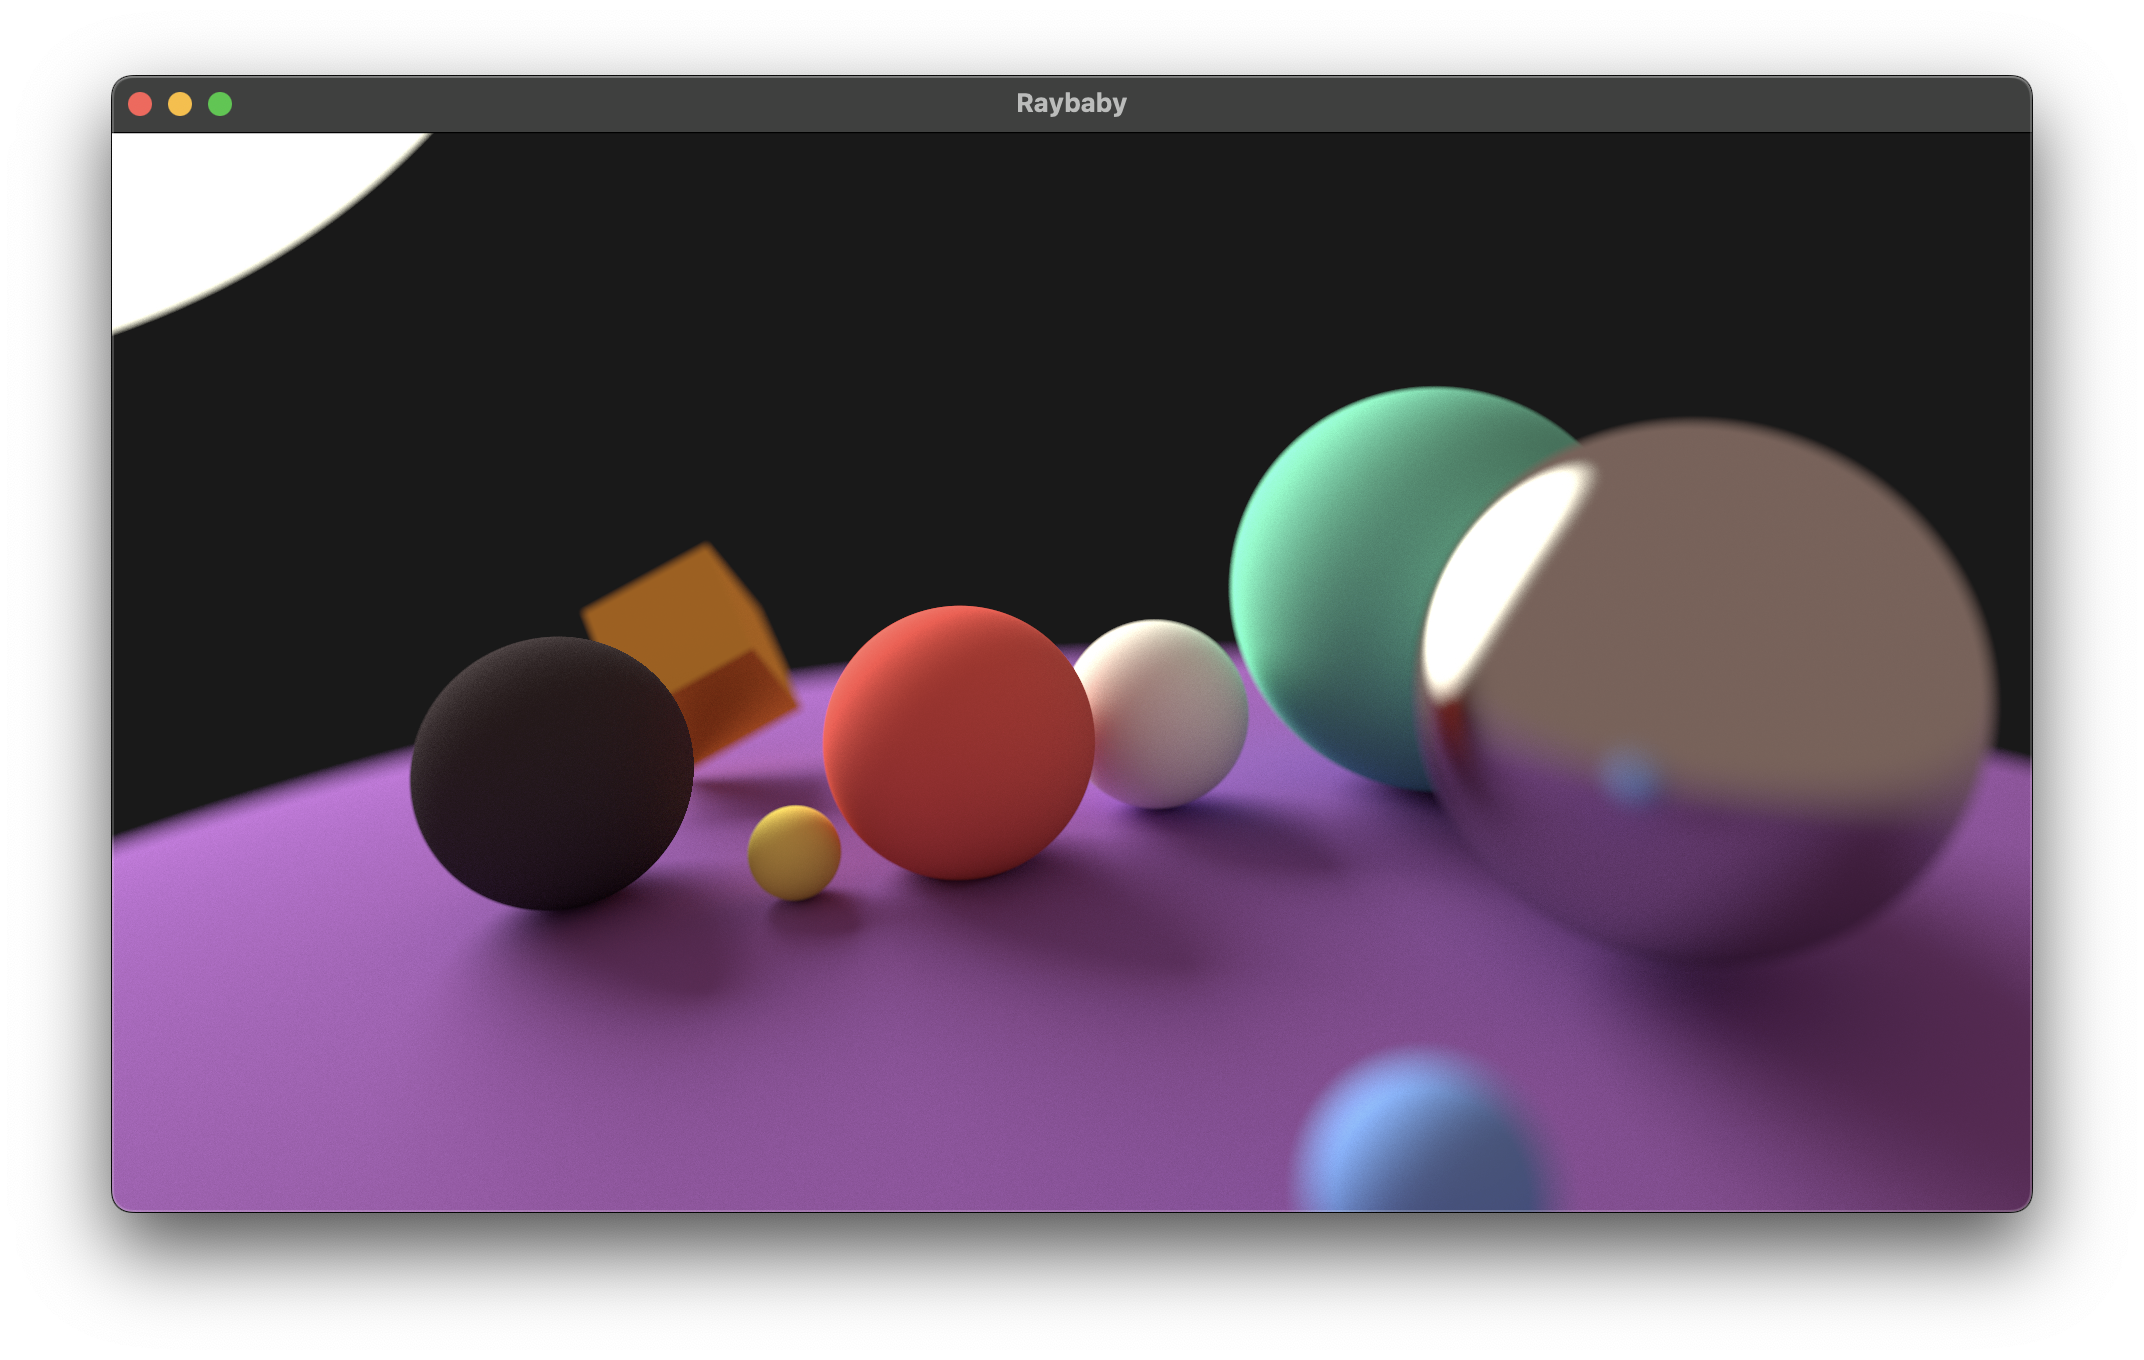
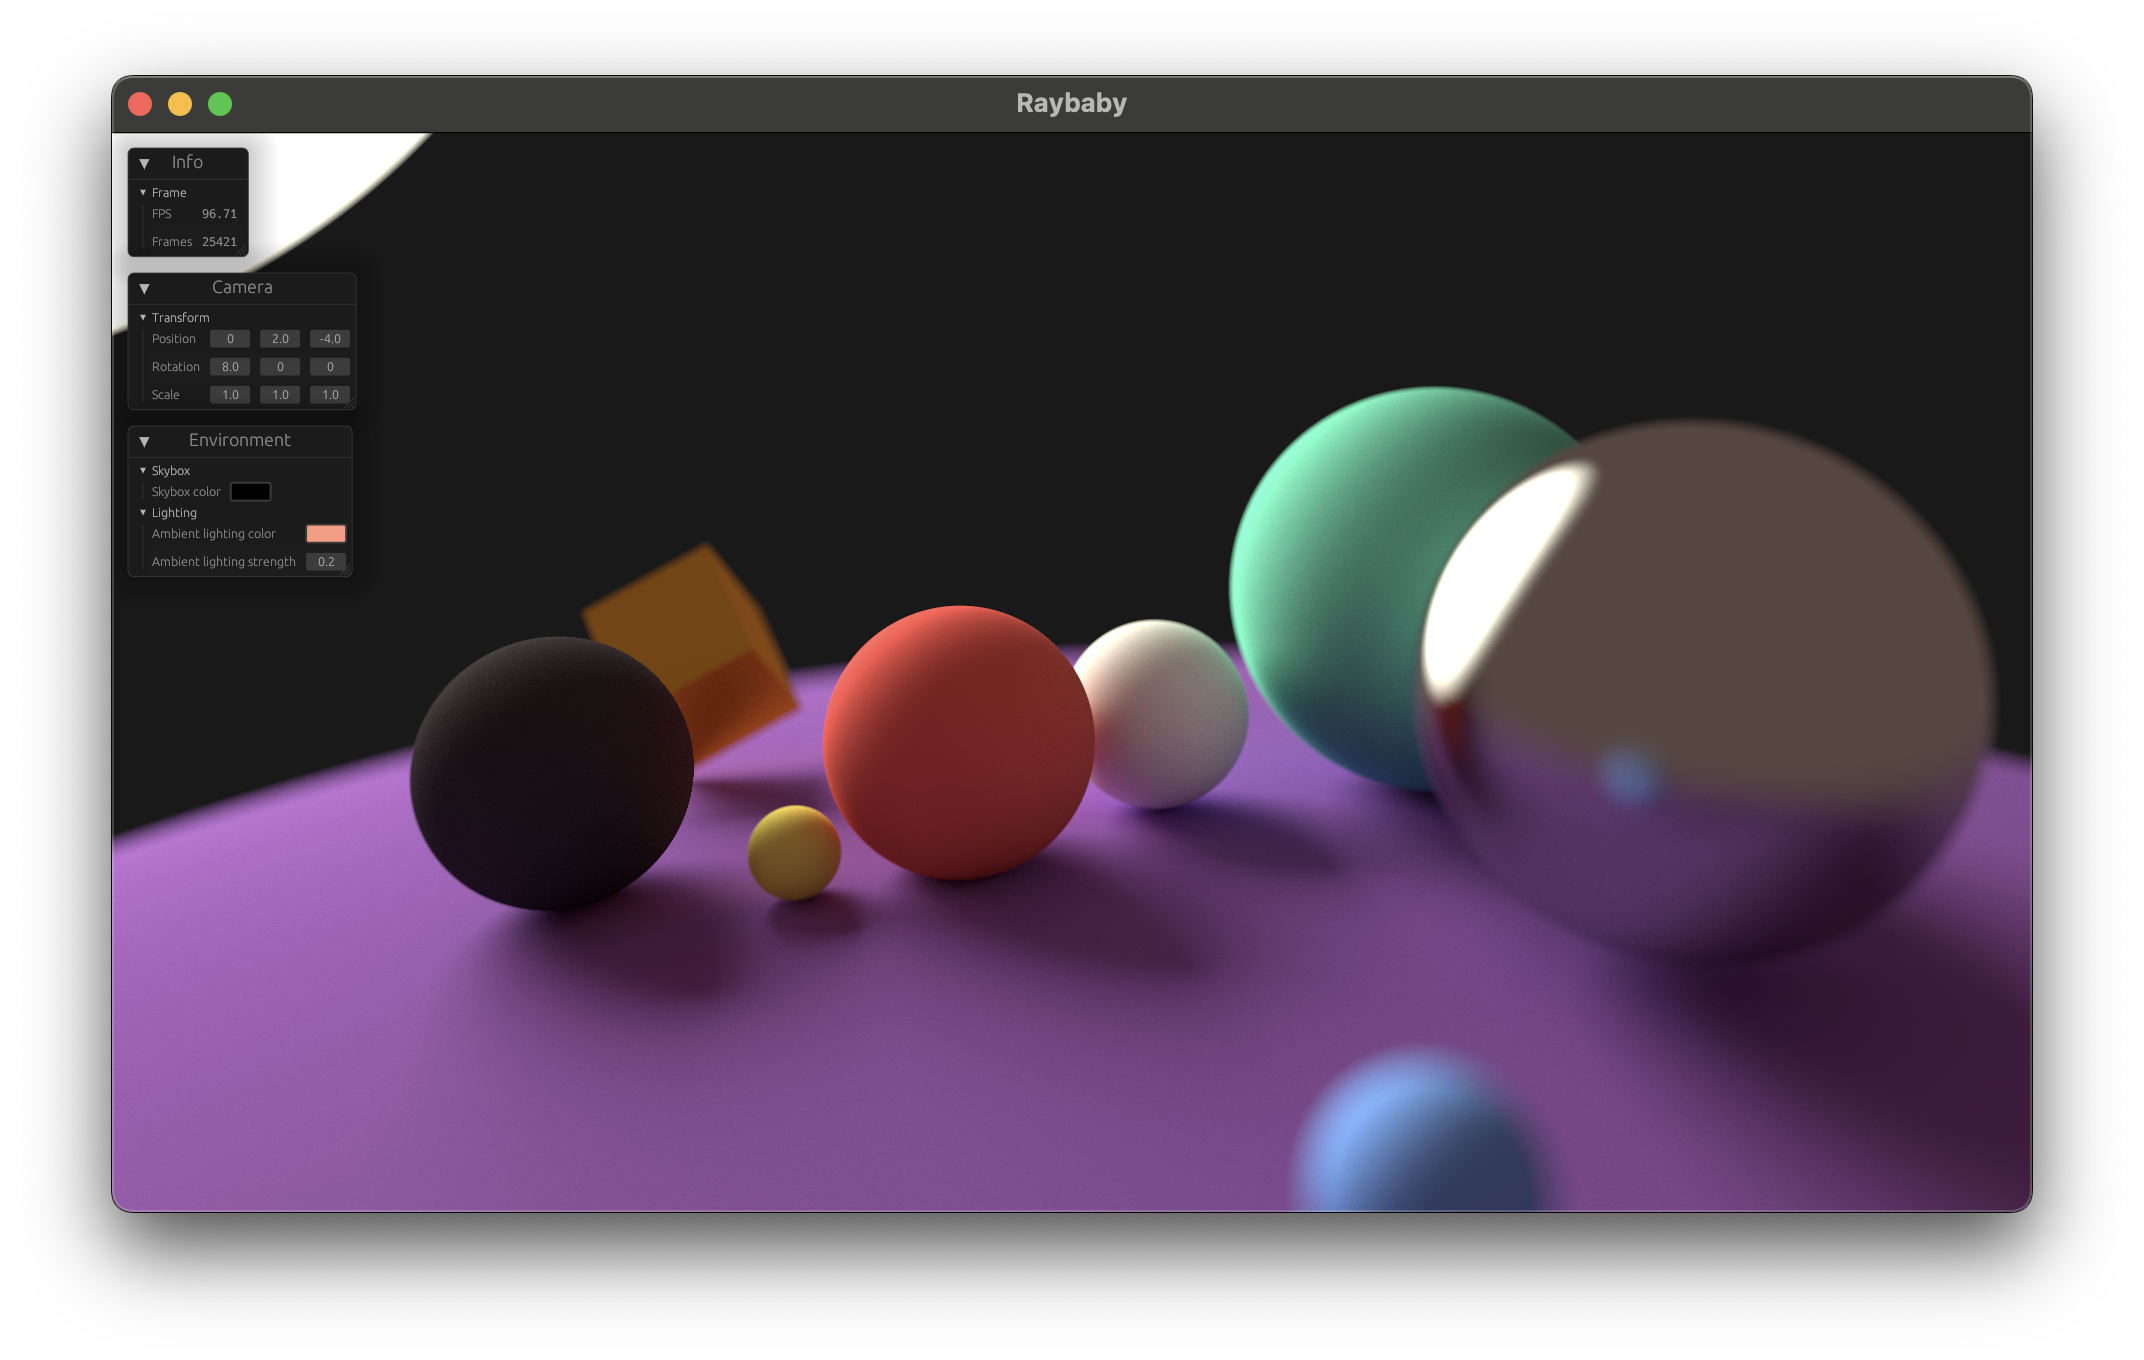
Cleaned up GUI rendering a bit

diff --git a/src/gui.rs b/src/gui.rs
@@ -1,4 +1,9 @@
-use crate::storage::{Camera, Globals};
+use egui::RichText;
+
+use crate::{
+    app::Timing,
+    storage::{Camera, Globals},
+};
 
 pub struct Window {
     info: InfoPane,
@@ -15,34 +20,40 @@ impl Window {
         }
     }
 
-    pub fn ui(&mut self, ctx: &egui::Context, globals: &mut Globals) {
+    pub fn ui(&mut self, ctx: &egui::Context, globals: &mut Globals, timing: &Timing) {
         egui::Window::new("Info")
-            .min_width(900.0)
+            .default_open(true)
             .show(ctx, |ui: &mut egui::Ui| {
-                self.info.ui(ui, globals);
+                self.info.ui(ui, globals, timing);
             });
 
-        egui::Window::new("Camera").show(ctx, |ui: &mut egui::Ui| {
-            self.camera.ui(ui, &mut globals.camera);
-        });
+        egui::Window::new("Camera")
+            .default_open(true)
+            .show(ctx, |ui: &mut egui::Ui| {
+                self.camera.ui(ui, &mut globals.camera);
+            });
 
-        egui::Window::new("Environment").show(ctx, |ui: &mut egui::Ui| {
-            self.environment.ui(ui, globals);
-        });
+        egui::Window::new("Environment")
+            .default_open(true)
+            .show(ctx, |ui: &mut egui::Ui| {
+                self.environment.ui(ui, globals);
+            });
     }
 }
 
 struct InfoPane;
 
 impl InfoPane {
-    fn ui(&mut self, ui: &mut egui::Ui, globals: &mut Globals) {
-        egui::Grid::new("info")
-            .striped(true)
-            .spacing([10.0, 10.0])
-            .show(ui, |ui| {
-                ui.label("Frame");
-                ui.add(egui::DragValue::new(&mut globals.frame).speed(1.0));
-            });
+    fn ui(&mut self, ui: &mut egui::Ui, globals: &mut Globals, timing: &Timing) {
+        draw_section(ui, "Frame", |ui| {
+            ui.label("FPS");
+            ui.label(RichText::new(format!("{:.2}", timing.avs_fps)).monospace());
+
+            ui.end_row();
+
+            ui.label("Frames");
+            ui.label(RichText::new(format!("{}", globals.frame)).monospace());
+        });
     }
 }
 
@@ -50,8 +61,7 @@ struct CameraPane;
 
 impl CameraPane {
     fn ui(&mut self, ui: &mut egui::Ui, camera: &mut Camera) {
-        // Camera transform
-        {
+        draw_section(ui, "Transform", |ui| {
             let position = camera.world_space_position;
             let rotation = {
                 let (_, rotation, _) = camera.local_to_world_matrix.to_scale_rotation_translation();
@@ -74,13 +84,9 @@ impl CameraPane {
                 };
 
                 camera.world_space_position = transform.position;
-                camera.local_to_world_matrix = glam::Mat4::from_scale_rotation_translation(
-                    transform.scale,
-                    glam::Quat::from_euler(glam::EulerRot::XYZ, x, y, z),
-                    transform.position,
-                );
+                camera.local_to_world_matrix = glam::Mat4::from_euler(glam::EulerRot::XYZ, x, y, z);
             }
-        }
+        });
     }
 }
 
@@ -88,79 +94,70 @@ struct EnvironmentPane;
 
 impl EnvironmentPane {
     fn ui(&mut self, ui: &mut egui::Ui, globals: &mut Globals) {
-        egui::CollapsingHeader::new("Skybox")
-            .default_open(true)
-            .show(ui, |ui| {
-                egui::Grid::new("skybox")
-                    .striped(true)
-                    .spacing([10.0, 10.0])
-                    .show(ui, |ui| {
-                        let mut color = egui::Color32::from_rgba_premultiplied(
-                            (globals.skybox_color[0] * 255.0) as u8,
-                            (globals.skybox_color[1] * 255.0) as u8,
-                            (globals.skybox_color[2] * 255.0) as u8,
-                            255,
-                        );
+        draw_section(ui, "Skybox", |ui| {
+            let mut color = egui::Color32::from_rgba_premultiplied(
+                (globals.skybox_color[0] * 255.0) as u8,
+                (globals.skybox_color[1] * 255.0) as u8,
+                (globals.skybox_color[2] * 255.0) as u8,
+                255,
+            );
 
-                        ui.label("Skybox color");
-                        ui.color_edit_button_srgba(&mut color);
-                    })
-            });
+            ui.label("Skybox color");
+            ui.color_edit_button_srgba(&mut color);
+        });
 
-        egui::CollapsingHeader::new("Lighting")
-            .default_open(true)
-            .show(ui, |ui| {
-                egui::Grid::new("lighting")
-                    .striped(true)
-                    .spacing([10.0, 10.0])
-                    .show(ui, |ui| {
-                        let mut color = egui::Color32::from_rgba_premultiplied(
-                            (globals.ambient_lighting_color[0] * 255.0) as u8,
-                            (globals.ambient_lighting_color[1] * 255.0) as u8,
-                            (globals.ambient_lighting_color[2] * 255.0) as u8,
-                            255,
-                        );
+        draw_section(ui, "Lighting", |ui| {
+            let mut color = egui::Color32::from_rgba_premultiplied(
+                (globals.ambient_lighting_color[0] * 255.0) as u8,
+                (globals.ambient_lighting_color[1] * 255.0) as u8,
+                (globals.ambient_lighting_color[2] * 255.0) as u8,
+                255,
+            );
 
-                        ui.label("Ambient lighting color");
-                        ui.color_edit_button_srgba(&mut color);
+            ui.label("Ambient lighting color");
+            ui.color_edit_button_srgba(&mut color);
 
-                        ui.end_row();
+            ui.end_row();
 
-                        ui.label("Ambient lighting strength");
-                        ui.add(
-                            egui::DragValue::new(&mut globals.ambient_lighting_strength).speed(0.1),
-                        );
-                    })
-            });
+            ui.label("Ambient lighting strength");
+            ui.add(egui::DragValue::new(&mut globals.ambient_lighting_strength).speed(0.1));
+        });
     }
 }
 
-fn draw_transform(ui: &mut egui::Ui, transform: &mut crate::scene::Transform) {
-    egui::CollapsingHeader::new("Transform")
+fn draw_section<F>(ui: &mut egui::Ui, name: &'static str, builder: F)
+where
+    F: FnOnce(&mut egui::Ui),
+{
+    egui::CollapsingHeader::new(name)
         .default_open(true)
         .show(ui, |ui| {
-            egui::Grid::new("transform")
+            egui::Grid::new(name)
                 .striped(true)
                 .spacing([10.0, 10.0])
                 .show(ui, |ui| {
-                    ui.label("Position");
-                    ui.add(egui::DragValue::new(&mut transform.position[0]).speed(0.1));
-                    ui.add(egui::DragValue::new(&mut transform.position[1]).speed(0.1));
-                    ui.add(egui::DragValue::new(&mut transform.position[2]).speed(0.1));
-
-                    ui.end_row();
-
-                    ui.label("Rotation");
-                    ui.add(egui::DragValue::new(&mut transform.rotation[0]).speed(0.1));
-                    ui.add(egui::DragValue::new(&mut transform.rotation[1]).speed(0.1));
-                    ui.add(egui::DragValue::new(&mut transform.rotation[2]).speed(0.1));
-
-                    ui.end_row();
-
-                    ui.label("Scale");
-                    ui.add(egui::DragValue::new(&mut transform.scale[0]).speed(0.1));
-                    ui.add(egui::DragValue::new(&mut transform.scale[1]).speed(0.1));
-                    ui.add(egui::DragValue::new(&mut transform.scale[2]).speed(0.1));
+                    builder(ui);
                 });
         });
+}
+
+fn draw_transform(ui: &mut egui::Ui, transform: &mut crate::scene::Transform) {
+    ui.label("Position");
+    ui.add(egui::DragValue::new(&mut transform.position[0]).speed(0.1));
+    ui.add(egui::DragValue::new(&mut transform.position[1]).speed(0.1));
+    ui.add(egui::DragValue::new(&mut transform.position[2]).speed(0.1));
+
+    ui.end_row();
+
+    ui.label("Rotation");
+    ui.add(egui::DragValue::new(&mut transform.rotation[0]).speed(0.1));
+    ui.add(egui::DragValue::new(&mut transform.rotation[1]).speed(0.1));
+    ui.add(egui::DragValue::new(&mut transform.rotation[2]).speed(0.1));
+
+    ui.end_row();
+
+    ui.label("Scale");
+    ui.add(egui::DragValue::new(&mut transform.scale[0]).speed(0.1));
+    ui.add(egui::DragValue::new(&mut transform.scale[1]).speed(0.1));
+    ui.add(egui::DragValue::new(&mut transform.scale[2]).speed(0.1));
 }

diff --git a/src/app.rs b/src/app.rs
@@ -40,7 +40,14 @@ pub struct Parameters {
     pub focal_blur_strength: f32,
 }
 
+pub struct Timing {
+    pub avs_fps: f32,
+    pub last_checkpoint: std::time::Instant,
+    pub frames_since_last_checkpoint: usize,
+}
+
 pub struct State {
+    timing: Timing,
     surface: wgpu::Surface,
     device: wgpu::Device,
     queue: wgpu::Queue,
@@ -284,11 +291,18 @@ impl State {
                 state,
                 renderer,
                 window: gui::Window::new(),
-                enabled: false,
+                enabled: true,
             }
         };
 
+        let timing = Timing {
+            avs_fps: 0.0,
+            last_checkpoint: std::time::Instant::now(),
+            frames_since_last_checkpoint: 0,
+        };
+
         Self {
+            timing,
             surface,
             device,
             queue,
@@ -357,6 +371,17 @@ impl State {
     }
 
     pub fn render(&mut self, window: &Window) -> Result<(), wgpu::SurfaceError> {
+        self.timing.frames_since_last_checkpoint += 1;
+        if self.timing.last_checkpoint.elapsed().as_secs_f32() >= 0.25 {
+            self.timing.avs_fps = {
+                let frame_count = self.timing.frames_since_last_checkpoint;
+                (frame_count as f32) / self.timing.last_checkpoint.elapsed().as_secs_f32()
+            };
+
+            self.timing.frames_since_last_checkpoint = 0;
+            self.timing.last_checkpoint = std::time::Instant::now();
+        }
+
         let output = self.surface.get_current_texture()?;
         let view = output
             .texture
@@ -494,7 +519,9 @@ impl State {
 
             let input = self.gui_layer.state.take_egui_input(window);
             let output = self.gui_layer.ctx.run(input, |ctx| {
-                self.gui_layer.window.ui(ctx, &mut self.globals);
+                self.gui_layer
+                    .window
+                    .ui(ctx, &mut self.globals, &self.timing);
             });
 
             self.gui_layer.state.handle_platform_output(

diff --git a/src/main.rs b/src/main.rs
@@ -80,9 +80,6 @@ async fn run() -> Result<(), String> {
 
             let mut state = State::new(&window, &scene, &parameters).await;
 
-            let mut last_frame_inst = Instant::now();
-            let (mut frame_count, mut accum_time) = (0, 0.0);
-
             event_loop.run(move |event, _, control_flow| match event {
                 Event::WindowEvent {
                     ref event,
@@ -111,20 +108,6 @@ async fn run() -> Result<(), String> {
                     }
                 }
                 Event::RedrawRequested(window_id) if window_id == window.id() => {
-                    {
-                        accum_time += last_frame_inst.elapsed().as_secs_f32();
-                        last_frame_inst = Instant::now();
-                        frame_count += 1;
-                        if frame_count == 100 {
-                            println!(
-                                "Avg frame time {}ms",
-                                accum_time * 1000.0 / frame_count as f32
-                            );
-                            accum_time = 0.0;
-                            frame_count = 0;
-                        }
-                    }
-
                     state.update();
                     match state.render(&window) {
                         Ok(_) => {}
